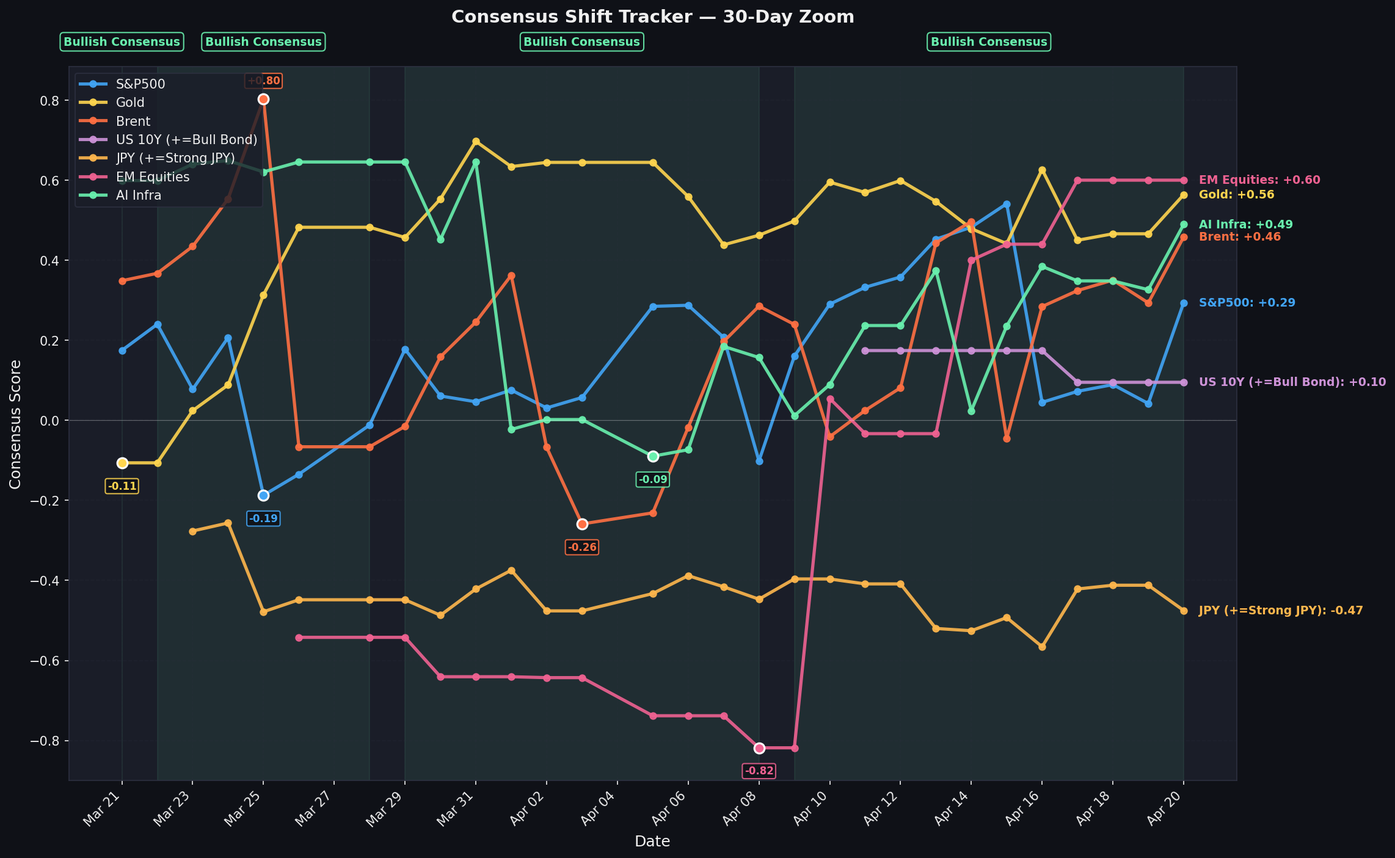
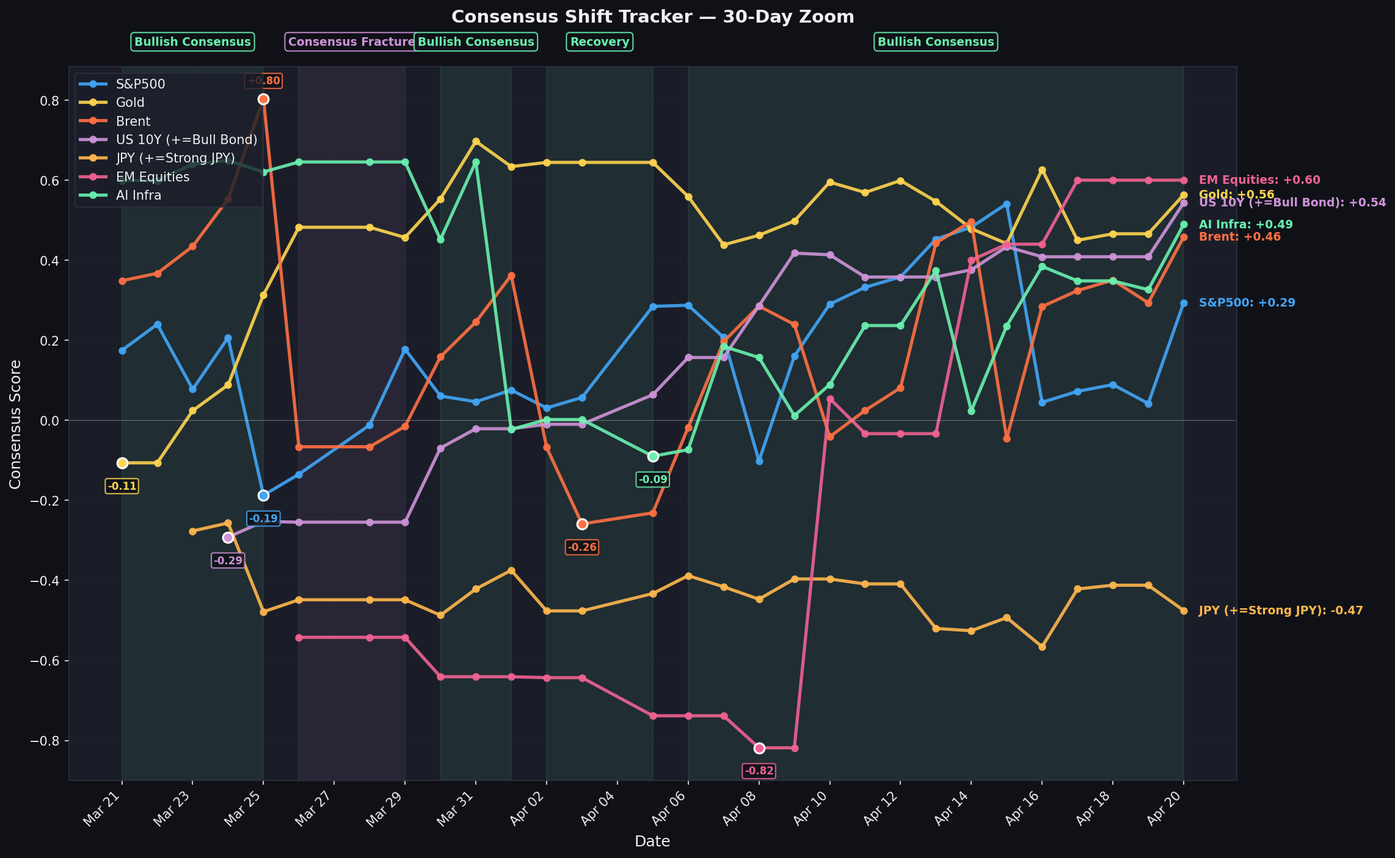
Daily update — 2026-04-21

diff --git a/index.html b/index.html
@@ -392,7 +392,7 @@
       </div>
       <div class="header-meta">
         <span>Apr 20, 2026</span>
-        <span>17 Assets · 27 Banks · 2,534 Calls · 58 Dates</span>
+        <span>18 Assets · 27 Banks · 2,671 Calls · 58 Dates</span>
       </div>
     </div>
     <div class="tab-bar">
@@ -430,8 +430,8 @@
           <div class="stats-grid">
             <div class="stat-card">
               <p class="stat-label">Bullish Assets</p>
-              <p class="stat-value text-bull">15</p>
-              <p class="stat-sub">AI Infra, Brent, China, Copper, Credit HY, Credit IG, EM Equities, EUR/USD (+=Long EUR), Gold, India, Japan, Korea, Nasdaq, S&P500, US 10Y (+=Bull Bond)</p>
+              <p class="stat-value text-bull">16</p>
+              <p class="stat-sub">AI Infra, Brent, China, Copper, Credit HY, Credit IG, EM Equities, EUR/USD (+=Long EUR), Gold, India, Japan, Korea, Nasdaq, S&P500, US 10Y (+=Bull Bond), US 2Y (+=Bull Bond)</p>
             </div>
             <div class="stat-card">
               <p class="stat-label">Bearish Assets</p>
@@ -450,7 +450,7 @@
             </div>
           </div>
           <p style="font-size:13px;color:var(--fg-muted);line-height:1.65;">
-            Of 17 canonical assets tracked across 27 banks and 2,534 directional calls over 58 trading dates (2026-02-03 – 2026-04-20), the consensus has turned overwhelmingly bearish. 15 assets remain positive — AI Infra, Brent, China, Copper, Credit HY, Credit IG, EM Equities, EUR/USD (+=Long EUR), Gold, India, Japan, Korea, Nasdaq, S&P500, US 10Y (+=Bull Bond). 0 assets sit below −0.50, and 0 —  — have reached unanimous bearishness with zero bullish voices remaining.
+            Of 18 canonical assets tracked across 27 banks and 2,671 directional calls over 58 trading dates (2026-02-03 – 2026-04-20), the consensus has turned overwhelmingly bearish. 16 assets remain positive — AI Infra, Brent, China, Copper, Credit HY, Credit IG, EM Equities, EUR/USD (+=Long EUR), Gold, India, Japan, Korea, Nasdaq, S&P500, US 10Y (+=Bull Bond), US 2Y (+=Bull Bond). 0 assets sit below −0.50, and 0 —  — have reached unanimous bearishness with zero bullish voices remaining.
           </p>
         </section>
 
@@ -459,7 +459,7 @@
           <div id="todays-changes" style="scroll-margin-top:72px;"></div>
           <h2 class="section-heading">1b. Today's Changes (2026-04-19 → 2026-04-20)</h2>
           <div class="signal-card" style="border-color:var(--bull);"><div class="signal-body"><div class="signal-header"><span class="signal-asset">Korea</span><span style="font-family:'JetBrains Mono',monospace;font-size:10px;font-weight:700;color:var(--bg);background:var(--bull);padding:2px 8px;">BEAR → BULL</span><span class="mono" style="font-size:12px;color:var(--bull);font-weight:700;">-0.06 → +0.23</span></div><p class="signal-note">New calls: CONSENSUS (bull), ING (bull), JPM (bull), MUFG (bull)</p></div></div>
-          <div class="table-wrap" style="margin-top:16px;"><table><thead><tr><th>Asset</th><th>Previous</th><th>Current</th><th>Change</th><th>B/Be</th><th>New Calls</th></tr></thead><tbody><tr><td style="font-weight:600;">S&P500</td><td class="mono" style="color:var(--fg-muted);">+0.04</td><td class="mono" style="color:var(--bull);font-weight:700;">+0.29</td><td class="mono" style="color:var(--bull);font-weight:700;">+0.25</td><td class="mono-sm">12B/5Be</td><td style="font-size:11px;color:var(--fg-muted);">Barclays (bull), BofA (bull), BofA (bear), CBOE (bear) +16 more</td></tr><tr><td style="font-weight:600;">Korea</td><td class="mono" style="color:var(--fg-muted);">-0.06</td><td class="mono" style="color:var(--bull);font-weight:700;">+0.23</td><td class="mono" style="color:var(--bull);font-weight:700;">+0.29</td><td class="mono-sm">7B/4Be</td><td style="font-size:11px;color:var(--fg-muted);">CONSENSUS (bull), ING (bull), JPM (bull), MUFG (bull)</td></tr><tr><td style="font-weight:600;">Japan</td><td class="mono" style="color:var(--fg-muted);">+0.01</td><td class="mono" style="color:var(--bull);font-weight:700;">+0.16</td><td class="mono" style="color:var(--bull);font-weight:700;">+0.15</td><td class="mono-sm">4B/2Be</td><td style="font-size:11px;color:var(--fg-muted);">CONSENSUS (bull), GS (bull), JPM (bull)</td></tr><tr><td style="font-weight:600;">JPY (+=Strong JPY)</td><td class="mono" style="color:var(--fg-muted);">-0.41</td><td class="mono" style="color:var(--bear);font-weight:700;">-0.47</td><td class="mono" style="color:var(--bear);font-weight:700;">-0.06</td><td class="mono-sm">1B/10Be</td><td style="font-size:11px;color:var(--fg-muted);">CONSENSUS (bear), JPM (bear), MUFG (bear), MUFG (bear) +1 more</td></tr><tr><td style="font-weight:600;">India</td><td class="mono" style="color:var(--fg-muted);">+0.20</td><td class="mono" style="color:var(--bull);font-weight:700;">+0.30</td><td class="mono" style="color:var(--bull);font-weight:700;">+0.10</td><td class="mono-sm">11B/1Be</td><td style="font-size:11px;color:var(--fg-muted);">BofA (bull), CONSENSUS (bull), MUFG (bull)</td></tr><tr><td style="font-weight:600;">Gold</td><td class="mono" style="color:var(--fg-muted);">+0.47</td><td class="mono" style="color:var(--bull);font-weight:700;">+0.56</td><td class="mono" style="color:var(--bull);font-weight:700;">+0.10</td><td class="mono-sm">15B/3Be</td><td style="font-size:11px;color:var(--fg-muted);">ANZ (bull), ANZ (bull), BofA (bear), CONSENSUS (bull) +3 more</td></tr><tr><td style="font-weight:600;">Credit HY</td><td class="mono" style="color:var(--fg-muted);">+0.63</td><td class="mono" style="color:var(--bull);font-weight:700;">+0.70</td><td class="mono" style="color:var(--bull);font-weight:700;">+0.07</td><td class="mono-sm">7B/1Be</td><td style="font-size:11px;color:var(--fg-muted);">CONSENSUS (bull), JPM (bull), JPM (bull), TSLombard (bull)</td></tr><tr><td style="font-weight:600;">Copper</td><td class="mono" style="color:var(--fg-muted);">+0.30</td><td class="mono" style="color:var(--bull);font-weight:700;">+0.43</td><td class="mono" style="color:var(--bull);font-weight:700;">+0.12</td><td class="mono-sm">10B/0Be</td><td style="font-size:11px;color:var(--fg-muted);">Barclays (bull), CONSENSUS (bull)</td></tr><tr><td style="font-weight:600;">China</td><td class="mono" style="color:var(--fg-muted);">+0.28</td><td class="mono" style="color:var(--bull);font-weight:700;">+0.39</td><td class="mono" style="color:var(--bull);font-weight:700;">+0.12</td><td class="mono-sm">11B/3Be</td><td style="font-size:11px;color:var(--fg-muted);">ANZ (bull), ANZ (bull), ANZ (bull), ANZ (bull) +8 more</td></tr><tr><td style="font-weight:600;">Brent</td><td class="mono" style="color:var(--fg-muted);">+0.29</td><td class="mono" style="color:var(--bull);font-weight:700;">+0.46</td><td class="mono" style="color:var(--bull);font-weight:700;">+0.16</td><td class="mono-sm">16B/4Be</td><td style="font-size:11px;color:var(--fg-muted);">BofA (bull), CONSENSUS (bull), DB (bull), DB (bull) +9 more</td></tr><tr><td style="font-weight:600;">AI Infra</td><td class="mono" style="color:var(--fg-muted);">+0.33</td><td class="mono" style="color:var(--bull);font-weight:700;">+0.49</td><td class="mono" style="color:var(--bull);font-weight:700;">+0.16</td><td class="mono-sm">13B/2Be</td><td style="font-size:11px;color:var(--fg-muted);">BofA (bull), BofA (bull), CONSENSUS (bull), GS (bull) +6 more</td></tr></tbody></table></div>
+          <div class="table-wrap" style="margin-top:16px;"><table><thead><tr><th>Asset</th><th>Previous</th><th>Current</th><th>Change</th><th>B/Be</th><th>New Calls</th></tr></thead><tbody><tr><td style="font-weight:600;">US 10Y (+=Bull Bond)</td><td class="mono" style="color:var(--fg-muted);">+0.41</td><td class="mono" style="color:var(--bull);font-weight:700;">+0.54</td><td class="mono" style="color:var(--bull);font-weight:700;">+0.13</td><td class="mono-sm">10B/1Be</td><td style="font-size:11px;color:var(--fg-muted);">BofA (bull), CONSENSUS (bull), GS (bull), ING (bull)</td></tr><tr><td style="font-weight:600;">S&P500</td><td class="mono" style="color:var(--fg-muted);">+0.04</td><td class="mono" style="color:var(--bull);font-weight:700;">+0.29</td><td class="mono" style="color:var(--bull);font-weight:700;">+0.25</td><td class="mono-sm">12B/5Be</td><td style="font-size:11px;color:var(--fg-muted);">Barclays (bull), BofA (bull), BofA (bear), CBOE (bear) +16 more</td></tr><tr><td style="font-weight:600;">Korea</td><td class="mono" style="color:var(--fg-muted);">-0.06</td><td class="mono" style="color:var(--bull);font-weight:700;">+0.23</td><td class="mono" style="color:var(--bull);font-weight:700;">+0.29</td><td class="mono-sm">7B/4Be</td><td style="font-size:11px;color:var(--fg-muted);">CONSENSUS (bull), ING (bull), JPM (bull), MUFG (bull)</td></tr><tr><td style="font-weight:600;">Japan</td><td class="mono" style="color:var(--fg-muted);">+0.01</td><td class="mono" style="color:var(--bull);font-weight:700;">+0.16</td><td class="mono" style="color:var(--bull);font-weight:700;">+0.15</td><td class="mono-sm">4B/2Be</td><td style="font-size:11px;color:var(--fg-muted);">CONSENSUS (bull), GS (bull), JPM (bull)</td></tr><tr><td style="font-weight:600;">JPY (+=Strong JPY)</td><td class="mono" style="color:var(--fg-muted);">-0.41</td><td class="mono" style="color:var(--bear);font-weight:700;">-0.47</td><td class="mono" style="color:var(--bear);font-weight:700;">-0.06</td><td class="mono-sm">1B/10Be</td><td style="font-size:11px;color:var(--fg-muted);">CONSENSUS (bear), JPM (bear), MUFG (bear), MUFG (bear) +1 more</td></tr><tr><td style="font-weight:600;">India</td><td class="mono" style="color:var(--fg-muted);">+0.20</td><td class="mono" style="color:var(--bull);font-weight:700;">+0.30</td><td class="mono" style="color:var(--bull);font-weight:700;">+0.10</td><td class="mono-sm">11B/1Be</td><td style="font-size:11px;color:var(--fg-muted);">BofA (bull), CONSENSUS (bull), MUFG (bull)</td></tr><tr><td style="font-weight:600;">Gold</td><td class="mono" style="color:var(--fg-muted);">+0.47</td><td class="mono" style="color:var(--bull);font-weight:700;">+0.56</td><td class="mono" style="color:var(--bull);font-weight:700;">+0.10</td><td class="mono-sm">15B/3Be</td><td style="font-size:11px;color:var(--fg-muted);">ANZ (bull), ANZ (bull), BofA (bear), CONSENSUS (bull) +3 more</td></tr><tr><td style="font-weight:600;">Credit HY</td><td class="mono" style="color:var(--fg-muted);">+0.53</td><td class="mono" style="color:var(--bull);font-weight:700;">+0.61</td><td class="mono" style="color:var(--bull);font-weight:700;">+0.08</td><td class="mono-sm">7B/2Be</td><td style="font-size:11px;color:var(--fg-muted);">CONSENSUS (bull), JPM (bull), JPM (bull), TSLombard (bull)</td></tr><tr><td style="font-weight:600;">Copper</td><td class="mono" style="color:var(--fg-muted);">+0.30</td><td class="mono" style="color:var(--bull);font-weight:700;">+0.43</td><td class="mono" style="color:var(--bull);font-weight:700;">+0.12</td><td class="mono-sm">10B/0Be</td><td style="font-size:11px;color:var(--fg-muted);">Barclays (bull), CONSENSUS (bull)</td></tr><tr><td style="font-weight:600;">China</td><td class="mono" style="color:var(--fg-muted);">+0.28</td><td class="mono" style="color:var(--bull);font-weight:700;">+0.39</td><td class="mono" style="color:var(--bull);font-weight:700;">+0.12</td><td class="mono-sm">11B/3Be</td><td style="font-size:11px;color:var(--fg-muted);">ANZ (bull), ANZ (bull), ANZ (bull), ANZ (bull) +8 more</td></tr><tr><td style="font-weight:600;">Brent</td><td class="mono" style="color:var(--fg-muted);">+0.29</td><td class="mono" style="color:var(--bull);font-weight:700;">+0.46</td><td class="mono" style="color:var(--bull);font-weight:700;">+0.16</td><td class="mono-sm">16B/4Be</td><td style="font-size:11px;color:var(--fg-muted);">BofA (bull), CONSENSUS (bull), DB (bull), DB (bull) +9 more</td></tr><tr><td style="font-weight:600;">AI Infra</td><td class="mono" style="color:var(--fg-muted);">+0.33</td><td class="mono" style="color:var(--bull);font-weight:700;">+0.49</td><td class="mono" style="color:var(--bull);font-weight:700;">+0.16</td><td class="mono-sm">13B/2Be</td><td style="font-size:11px;color:var(--fg-muted);">BofA (bull), BofA (bull), CONSENSUS (bull), GS (bull) +6 more</td></tr></tbody></table></div>
         </section>
 
         <!-- 2. Regime Narrative -->
@@ -470,41 +470,21 @@
             <div class="act-row bull-border">
               <div class="act-meta">
                 <span class="act-badge bull-badge">Phase 1</span>
-                <span class="act-dates">2026-02-20 – 2026-03-21</span>
+                <span class="act-dates">2026-02-20 – 2026-04-05</span>
               </div>
               <div class="act-body">
                 <p class="act-title">Bullish Consensus</p>
-                <p class="act-text">Average consensus moved from +0.54 to +0.19. 6 assets positive, 1 negative at phase end. Key moves: Gold -0.91, S&P500 -0.63, Brent -0.52, AI Infra +0.70.</p>
+                <p class="act-text">Average consensus moved from +0.54 to +0.19. 12 assets positive, 5 negative at phase end. Key moves: EM Equities -1.64, Brent -1.10, S&P500 -0.52, Gold -0.16.</p>
               </div>
             </div>
             <div class="act-row bull-border">
               <div class="act-meta">
                 <span class="act-badge bull-badge">Phase 2</span>
-                <span class="act-dates">2026-03-22 – 2026-03-28</span>
+                <span class="act-dates">2026-04-06 – 2026-04-20</span>
               </div>
               <div class="act-body">
                 <p class="act-title">Bullish Consensus</p>
-                <p class="act-text">Average consensus moved from +0.21 to +0.19. 9 assets positive, 5 negative at phase end. Key moves: Brent -0.43, S&P500 -0.25, Gold +0.59.</p>
-              </div>
-            </div>
-            <div class="act-row bull-border">
-              <div class="act-meta">
-                <span class="act-badge bull-badge">Phase 3</span>
-                <span class="act-dates">2026-03-29 – 2026-04-08</span>
-              </div>
-              <div class="act-body">
-                <p class="act-title">Bullish Consensus</p>
-                <p class="act-text">Average consensus moved from +0.20 to +0.20. 12 assets positive, 4 negative at phase end. Key moves: AI Infra -0.49, Credit HY -0.38, S&P500 -0.28, EM Equities -0.28.</p>
-              </div>
-            </div>
-            <div class="act-row bull-border">
-              <div class="act-meta">
-                <span class="act-badge bull-badge">Phase 4</span>
-                <span class="act-dates">2026-04-09 – 2026-04-20</span>
-              </div>
-              <div class="act-body">
-                <p class="act-title">Bullish Consensus</p>
-                <p class="act-text">Average consensus moved from +0.21 to +0.36. 15 assets positive, 1 negative at phase end. Key moves: Japan -0.28, USD -0.24, Brent +0.22, EUR/USD (+=Long EUR) +0.24.</p>
+                <p class="act-text">Average consensus moved from +0.22 to +0.39. 16 assets positive, 1 negative at phase end. Key moves: Copper -0.33, Japan -0.30, Nasdaq -0.18, China +0.22.</p>
               </div>
             </div>
           </div>
@@ -546,7 +526,7 @@
             </table>
           </div>
           <p style="font-family:'JetBrains Mono',monospace;font-size:11px;color:var(--fg-muted);margin-top:12px;">
-            JPY (+=Strong JPY) suffered the largest reversal at -1.34 (from +0.87 to -0.47). 2 of 10 movers are complete reversals; 8 weakened but not reversed.
+            JPY (+=Strong JPY) suffered the largest reversal at -1.34 (from +0.87 to -0.47). 2 of 9 movers are complete reversals; 7 weakened but not reversed.
           </p>
         </section>
 
@@ -567,22 +547,22 @@
               <p class="panel-label text-bear">Late Arrivals — Consistently in Last Quartile</p>
               <div class="late-tags">
                 <span class="late-tag">Nomura</span>
-                <span class="late-tag">SocGen</span>
                 <span class="late-tag">Jefferies</span>
                 <span class="late-tag">MUFG</span>
-                <span class="late-tag">MS</span>
+                <span class="late-tag">SocGen</span>
                 <span class="late-tag">Mizuho</span>
+                <span class="late-tag">MS</span>
               </div>
             </div>
           </div>
           <div style="margin-top:16px;">
             <div class="panel" style="width:100%;">
               <p class="panel-label" style="color:#4FC3F7;">Recent Conviction Movers — Most Active Flips (Last 14 Days)</p>
-              <div class="bank-row"><span class="bank-name" style="color:#4FC3F7;">GS</span><span class="bank-note">50 flips in 14d (130 calls). Recent: AI Infra BEAR→BULL, AI Infra BULL→BEAR, AI Infra BEAR→BULL.</span></div>
-              <div class="bank-row"><span class="bank-name" style="color:#4FC3F7;">JPM</span><span class="bank-note">41 flips in 14d (103 calls). Recent: China BULL→BEAR, China BEAR→BULL, China BULL→NEUTRAL.</span></div>
-              <div class="bank-row"><span class="bank-name" style="color:#4FC3F7;">BofA</span><span class="bank-note">41 flips in 14d (76 calls). Recent: AI Infra BULL→NEUTRAL, AI Infra NEUTRAL→BULL, AI Infra BULL→NEUTRAL.</span></div>
-              <div class="bank-row"><span class="bank-name" style="color:#4FC3F7;">MUFG</span><span class="bank-note">20 flips in 14d (41 calls). Recent: Brent BEAR→BULL, Brent BULL→BEAR, Brent BEAR→BULL.</span></div>
-              <div class="bank-row"><span class="bank-name" style="color:#4FC3F7;">ING</span><span class="bank-note">18 flips in 14d (125 calls). Recent: Brent BULL→BEAR, Brent BEAR→BULL, Brent BULL→BEAR.</span></div>
+              <div class="bank-row"><span class="bank-name" style="color:#4FC3F7;">GS</span><span class="bank-note">50 flips in 14d (132 calls). Recent: AI Infra BEAR→BULL, AI Infra BULL→BEAR, AI Infra BEAR→BULL.</span></div>
+              <div class="bank-row"><span class="bank-name" style="color:#4FC3F7;">BofA</span><span class="bank-note">46 flips in 14d (82 calls). Recent: AI Infra BULL→NEUTRAL, AI Infra NEUTRAL→BULL, AI Infra BULL→NEUTRAL.</span></div>
+              <div class="bank-row"><span class="bank-name" style="color:#4FC3F7;">JPM</span><span class="bank-note">44 flips in 14d (106 calls). Recent: China BULL→BEAR, China BEAR→BULL, China BULL→NEUTRAL.</span></div>
+              <div class="bank-row"><span class="bank-name" style="color:#4FC3F7;">MUFG</span><span class="bank-note">20 flips in 14d (42 calls). Recent: Brent BEAR→BULL, Brent BULL→BEAR, Brent BEAR→BULL.</span></div>
+              <div class="bank-row"><span class="bank-name" style="color:#4FC3F7;">DB</span><span class="bank-note">18 flips in 14d (48 calls). Recent: Brent BULL→BEAR, Brent BEAR→BULL, Brent BULL→BEAR.</span></div>
             </div>
           </div>
         </section>
@@ -620,10 +600,10 @@
           <div class="dq-box">
             <p class="dq-label">Data Quality &amp; Methodology</p>
             <div class="dq-grid">
-              <div><span class="dq-key">Source: </span>bank_conviction.csv — 2,534 directional calls from 27 banks</div>
-              <div><span class="dq-key">Consensus: </span>consensus_timeseries.csv — 756 rows</div>
+              <div><span class="dq-key">Source: </span>bank_conviction.csv — 2,671 directional calls from 27 banks</div>
+              <div><span class="dq-key">Consensus: </span>consensus_timeseries.csv — 799 rows</div>
               <div><span class="dq-key">Method: </span>Per-date average of each bank's latest score (14-day lookback, min 2 banks)</div>
-              <div><span class="dq-key">Coverage: </span>58 dates × 17 assets</div>
+              <div><span class="dq-key">Coverage: </span>58 dates × 18 assets</div>
               <div><span class="dq-key">Stale fill rows: </span>193</div>
               <div><span class="dq-key">Dedup rule: </span>Marketdesk data always preferred over summary categorization</div>
               <div style="grid-column:1/-1;"><span class="dq-key">Thin coverage: </span>Credit HY (5 banks), Credit IG (5 banks) — treat signals with caution</div>
@@ -642,20 +622,20 @@
     <div class="chart-section">
       <p class="chart-title">Consensus Shift Tracker — 30-Day Zoom</p>
       <p class="chart-subtitle">Mar 21 – Apr 20, 2026 · 8 Key Assets</p>
-      <img class="chart-img" src="img/chart_30d_zoom.png?v=1776813794" alt="30-Day Zoom chart" />
-      <p class="chart-caption">Tracks the consensus score trajectory for 8 key assets over the final 30 trading days. 4 regime phases detected: Bullish Consensus (2026-02-20 – 2026-03-21), Bullish Consensus (2026-03-22 – 2026-03-28), Bullish Consensus (2026-03-29 – 2026-04-08), Bullish Consensus (2026-04-09 – 2026-04-20). JPY (+=Strong JPY) ended at -0.47, the sharpest decline. Credit IG at +0.75 is the strongest positive. USD at -0.00 is closest to the inflection point.</p>
+      <img class="chart-img" src="img/chart_30d_zoom.png?v=1776814440" alt="30-Day Zoom chart" />
+      <p class="chart-caption">Tracks the consensus score trajectory for 8 key assets over the final 30 trading days. 2 regime phases detected: Bullish Consensus (2026-02-20 – 2026-04-05), Bullish Consensus (2026-04-06 – 2026-04-20). JPY (+=Strong JPY) ended at -0.47, the sharpest decline. Credit IG at +0.73 is the strongest positive. USD at -0.00 is closest to the inflection point.</p>
     </div>
     <div class="chart-section">
       <p class="chart-title">Bank Leadership by Macro Theme</p>
       <p class="chart-subtitle">★ = first to call/flip · ✓ = followed later · dates = first publication</p>
-      <img class="chart-img" src="img/chart_bank_leadership.png?v=1776813794" alt="Bank Leadership chart" />
-      <p class="chart-caption">Maps which banks led versus followed across 44 macro themes. Gold cells indicate leading calls (★); blue cells indicate supporting calls (✓); dark cells indicate absence. JPM, GS, BofA show the densest leading coverage. Late arrivals — Nomura, SocGen, Jefferies, MUFG — are concentrated in the bottom rows.</p>
+      <img class="chart-img" src="img/chart_bank_leadership.png?v=1776814440" alt="Bank Leadership chart" />
+      <p class="chart-caption">Maps which banks led versus followed across 46 macro themes. Gold cells indicate leading calls (★); blue cells indicate supporting calls (✓); dark cells indicate absence. JPM, GS, BofA show the densest leading coverage. Late arrivals — Nomura, Jefferies, MUFG, SocGen — are concentrated in the bottom rows.</p>
     </div>
     <div class="chart-section">
       <p class="chart-title">Bank × Asset Conviction Map</p>
       <p class="chart-subtitle">Green = Bull · Red = Bear · Gold border = contrarian · ▲Bull ▼Bear · No data = dark</p>
-      <img class="chart-img" src="img/chart_bank_asset_heatmap.png?v=1776813794" alt="Bank Asset Conviction Heatmap" />
-      <p class="chart-caption">Shows each bank's current directional conviction score (−1.0 to +1.0) for every tracked asset. Gold borders highlight contrarian positions. S&P500: +0.29. Nasdaq: +0.72. EM Equities: +0.60. USD: -0.00. Credit IG at +0.75 is the strongest positive.</p>
+      <img class="chart-img" src="img/chart_bank_asset_heatmap.png?v=1776814440" alt="Bank Asset Conviction Heatmap" />
+      <p class="chart-caption">Shows each bank's current directional conviction score (−1.0 to +1.0) for every tracked asset. Gold borders highlight contrarian positions. S&P500: +0.29. Nasdaq: +0.72. EM Equities: +0.60. USD: -0.00. Credit IG at +0.73 is the strongest positive.</p>
     </div>
   </div>
 </div>
@@ -750,7 +730,7 @@
   <div class="container">
     <div class="footer-inner">
       <span>Consensus Shift Tracker — Fade Report · Apr 20, 2026</span>
-      <span>Coverage: Mar 21 – Apr 20, 2026 · 58 trading dates · 17 assets · 27 banks</span>
+      <span>Coverage: Mar 21 – Apr 20, 2026 · 58 trading dates · 18 assets · 27 banks</span>
     </div>
   </div>
 </footer>
@@ -761,7 +741,7 @@
 const CONSENSUS = [
   {
     "asset": "Credit IG",
-    "score": 0.75,
+    "score": 0.73,
     "bull": 11,
     "bear": 0,
     "signal": "Unanimous bullish (11 banks)",
@@ -778,13 +758,22 @@ const CONSENSUS = [
     "carried": 6
   },
   {
+    "asset": "US 2Y (+=Bull Bond)",
+    "score": 0.62,
+    "bull": 9,
+    "bear": 0,
+    "signal": "Unanimous bullish (9 banks)",
+    "fresh": 3,
+    "carried": 7
+  },
+  {
     "asset": "Credit HY",
-    "score": 0.7,
+    "score": 0.61,
     "bull": 7,
-    "bear": 1,
+    "bear": 2,
     "signal": "",
     "fresh": 3,
-    "carried": 5
+    "carried": 6
   },
   {
     "asset": "EM Equities",
@@ -803,6 +792,15 @@ const CONSENSUS = [
     "signal": "",
     "fresh": 6,
     "carried": 12
+  },
+  {
+    "asset": "US 10Y (+=Bull Bond)",
+    "score": 0.54,
+    "bull": 10,
+    "bear": 1,
+    "signal": "",
+    "fresh": 4,
+    "carried": 7
   },
   {
     "asset": "AI Infra",
@@ -886,15 +884,6 @@ const CONSENSUS = [
     "carried": 5
   },
   {
-    "asset": "US 10Y (+=Bull Bond)",
-    "score": 0.1,
-    "bull": 1,
-    "bear": 1,
-    "signal": "Split — high disagreement",
-    "fresh": 0,
-    "carried": 2
-  },
-  {
     "asset": "USD",
     "score": -0.0,
     "bull": 8,
@@ -937,14 +926,6 @@ const MOVERS = [
     "peakDate": "2026-02-25",
     "current": 0.23,
     "drop": -0.71,
-    "status": "Weakened"
-  },
-  {
-    "asset": "US 10Y (+=Bull Bond)",
-    "peak": 0.68,
-    "peakDate": "2026-02-24",
-    "current": 0.1,
-    "drop": -0.59,
     "status": "Weakened"
   },
   {
@@ -1000,14 +981,6 @@ const MOVERS = [
 const FADE_SIGNALS = [
   {
     "n": 1,
-    "asset": "US 10Y (+=Bull Bond)",
-    "score": 0.1,
-    "bb": "1B vs 1Be",
-    "type": "disagreement",
-    "note": "High disagreement — 1 banks going against the prevailing direction. Watch for the minority to either capitulate or convert others."
-  },
-  {
-    "n": 2,
     "asset": "USD",
     "score": -0.0,
     "bb": "8B vs 8Be",
@@ -1015,12 +988,20 @@ const FADE_SIGNALS = [
     "note": "High disagreement — 8 banks going against the prevailing direction. Watch for the minority to either capitulate or convert others."
   },
   {
-    "n": 3,
+    "n": 2,
     "asset": "Korea",
     "score": 0.23,
     "bb": "7B vs 4Be",
     "type": "disagreement",
     "note": "High disagreement — 4 banks going against the prevailing direction. Watch for the minority to either capitulate or convert others."
+  },
+  {
+    "n": 3,
+    "asset": "S&P500",
+    "score": 0.29,
+    "bb": "12B vs 5Be",
+    "type": "disagreement",
+    "note": "High disagreement — 5 banks going against the prevailing direction. Watch for the minority to either capitulate or convert others."
   }
 ];
 
@@ -1030,12 +1011,6 @@ const INFLECTION = [
     "score": -0.0,
     "bb": "8B / 8Be",
     "note": "Split 8B/8Be — genuinely contested, one flip tips the balance"
-  },
-  {
-    "asset": "US 10Y (+=Bull Bond)",
-    "score": 0.1,
-    "bb": "1B / 1Be",
-    "note": "Split 1B/1Be — genuinely contested, one flip tips the balance"
   },
   {
     "asset": "Japan",
@@ -1054,6 +1029,12 @@ const INFLECTION = [
     "score": 0.29,
     "bb": "12B / 5Be",
     "note": "5 bears hold the minority — watch for capitulation or conversion"
+  },
+  {
+    "asset": "India",
+    "score": 0.3,
+    "bb": "11B / 1Be",
+    "note": "Leaning bullish (11B/1Be) but score near zero — thin coverage amplifies moves"
   }
 ];
 
@@ -1063,16 +1044,16 @@ const CATALYSTS = [
     "target": "USD direction"
   },
   {
-    "trigger": "Treasury auction demand and inflation expectations",
-    "target": "US 10Y (+=Bull Bond) direction"
-  },
-  {
     "trigger": "Japanese corporate earnings",
     "target": "Japan direction"
   },
   {
     "trigger": "Korean export data and semiconductor cycle",
     "target": "Korea direction"
+  },
+  {
+    "trigger": "US earnings and ISM data",
+    "target": "S&P500 direction"
   }
 ];
 
